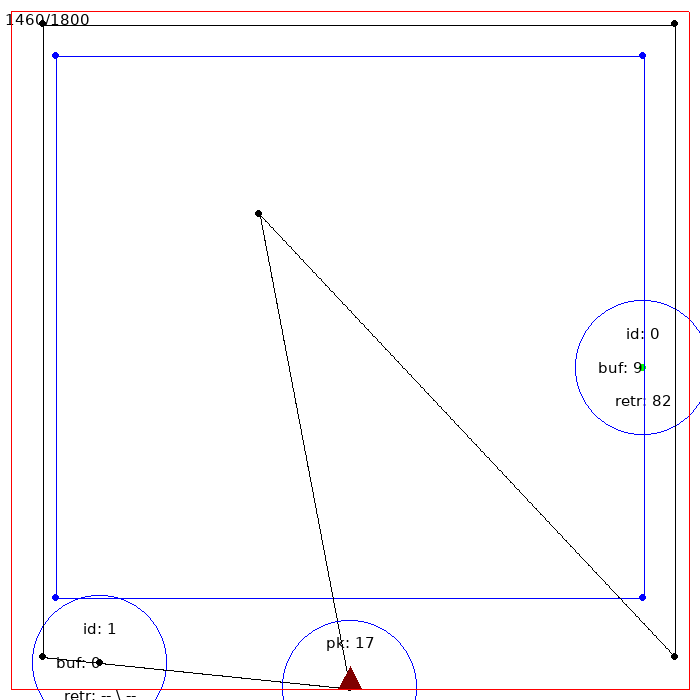
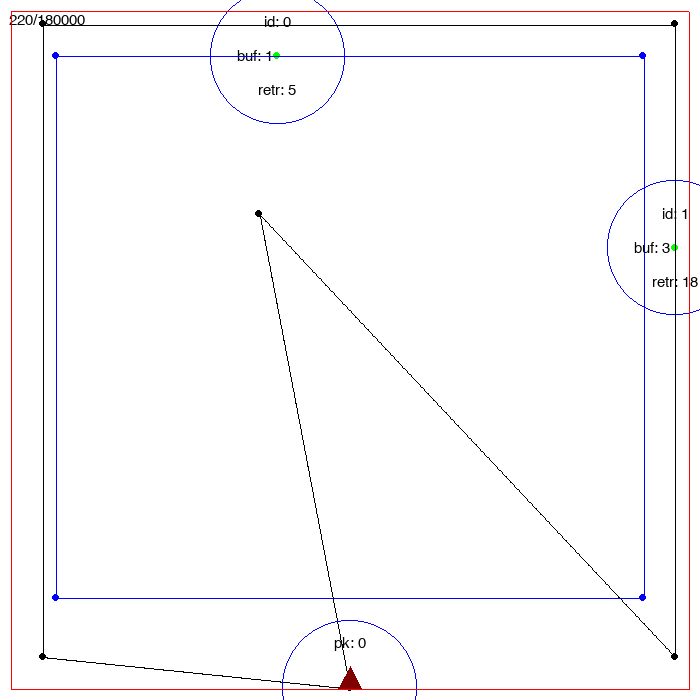
added code

diff --git a/src/utilities/config.py b/src/utilities/config.py
@@ -65,7 +65,7 @@ ROUTING_ALGORITHM = RoutingAlgorithm.QL
 
 # ------------------------------- CONSTANTS ------------------------------- #
 # drawaing
-PLOT_SIM = False      # bool: whether to plot or not the simulation.
+PLOT_SIM = True      # bool: whether to plot or not the simulation.
 
 SAVE_PLOT = PLOT_SIM  # bool: whether to save the plots of the simulation or not.
 
